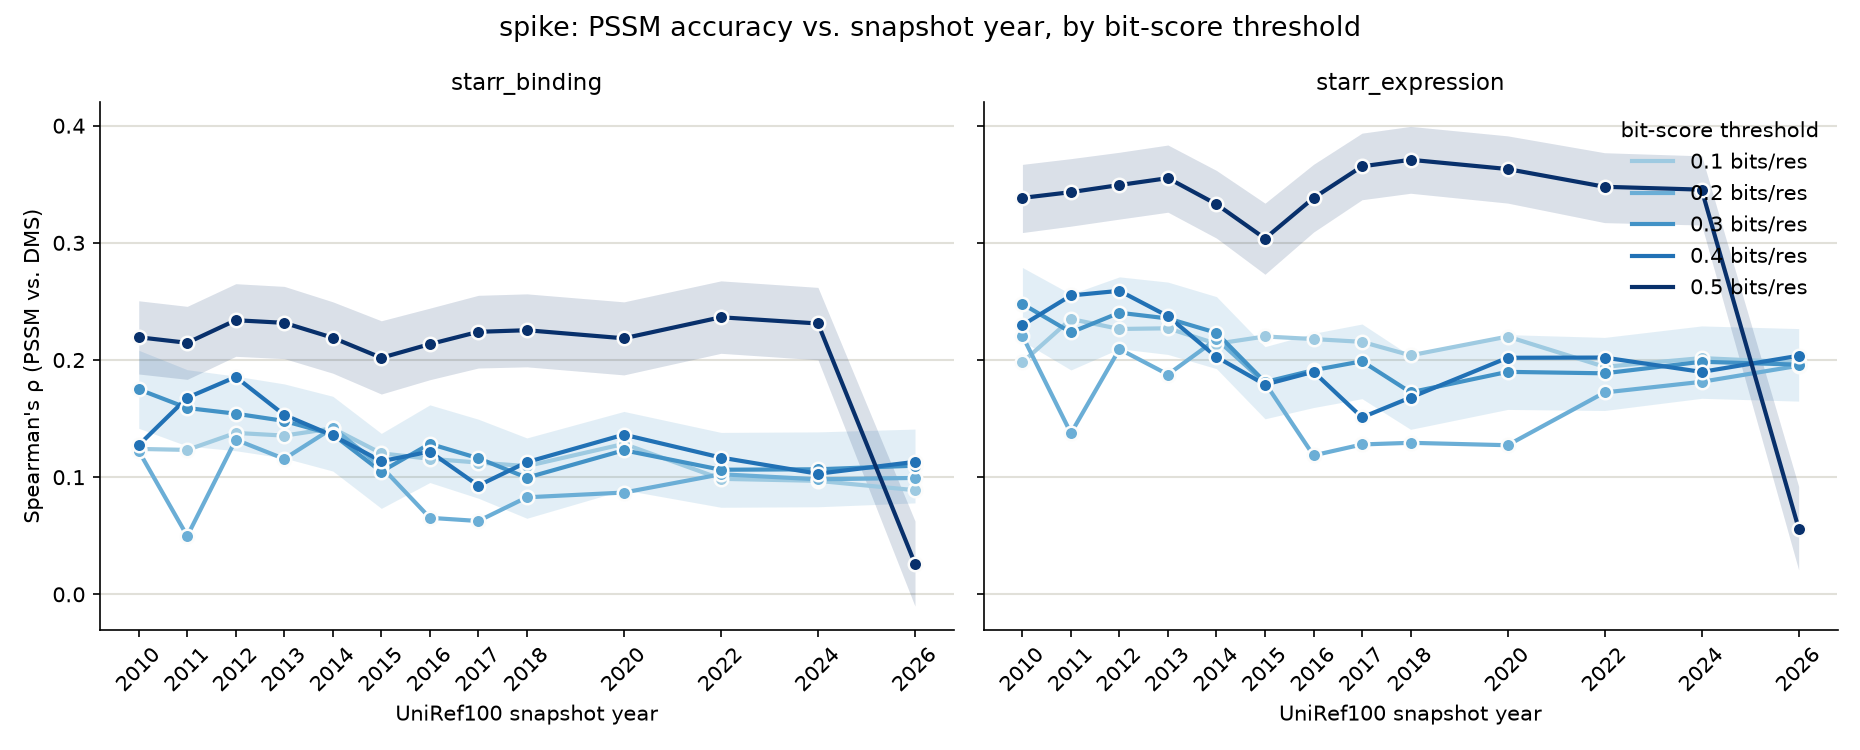
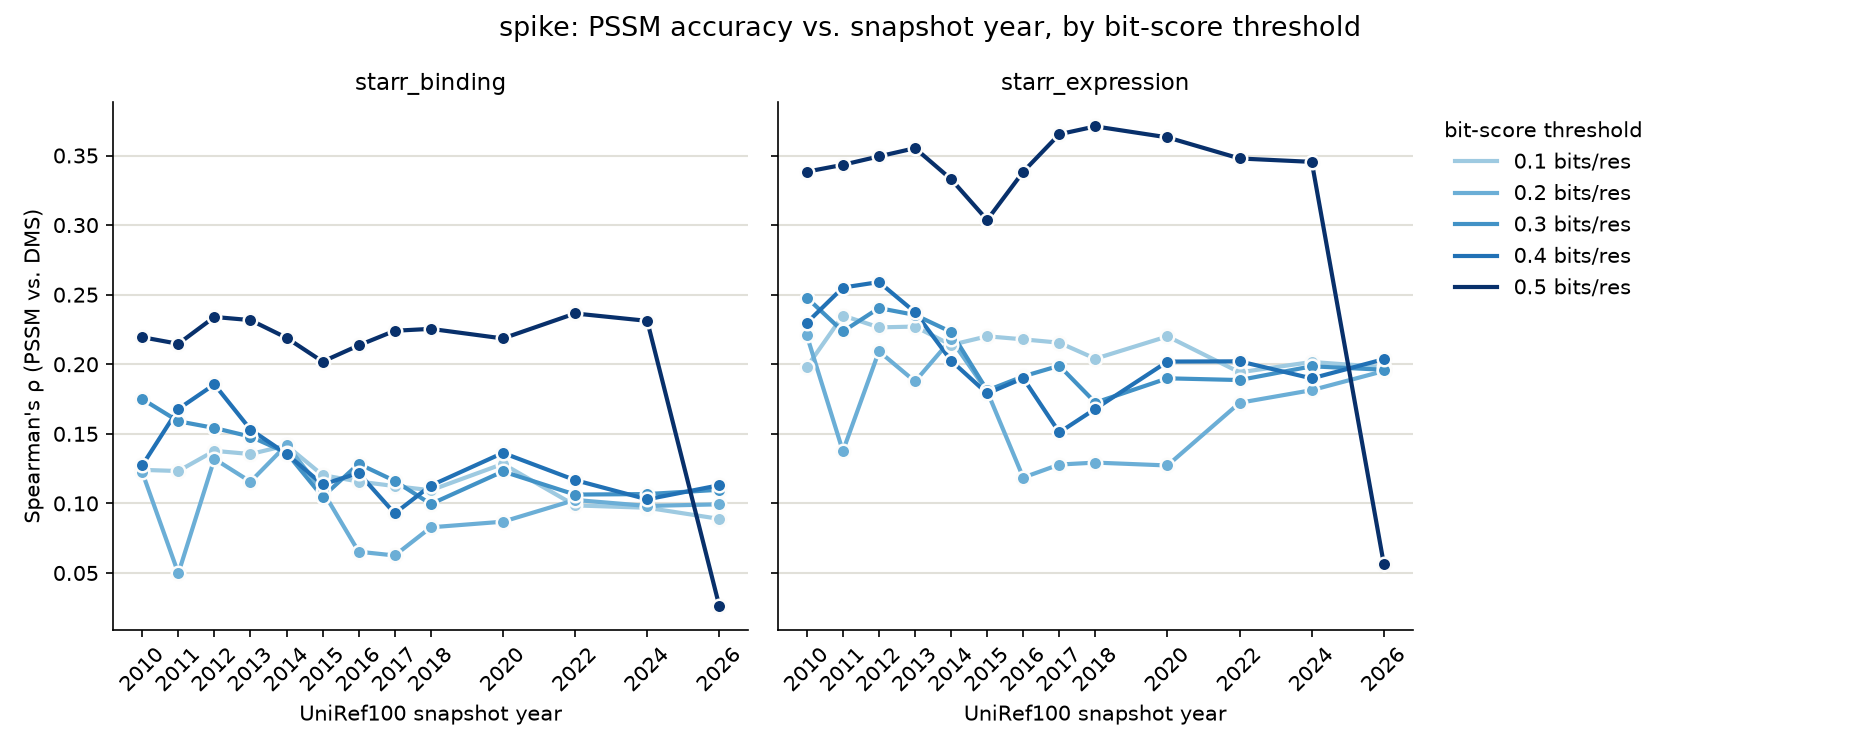
remove confidence bands

diff --git a/scripts/sweep/plot_threshold_sweep.py b/scripts/sweep/plot_threshold_sweep.py
@@ -8,10 +8,10 @@ writes one PNG per protein under `plots/`:
 
     python scripts/sweep/plot_threshold_sweep.py
 
-Only the config baseline threshold has CI bands (baseline vs. the best-scoring
-threshold) so the "is the improvement real?" comparison stays legible instead of
-five overlapping bands. Anomalous cells are left in place -- a collapsed point is
-a validation finding, not noise to hide.
+Lines only, no CI bands: five overlapping bands turn the low-threshold cluster
+into an unreadable haze, so the bootstrap CIs live in `data/sweep_results.csv`
+instead. Anomalous cells are left in place -- a collapsed point is a validation
+finding, not noise to hide.
 """
 
 import os
@@ -40,14 +40,9 @@ THRESHOLD_COLORS = {
 
 def plot_assay(ax, sub, title):
     thresholds = sorted(sub["bitscore_per_residue"].unique())
-    baseline = min(thresholds, key=lambda t: abs(t - 0.3))  # config default for spike
-    best = max(thresholds)  # 0.5 is the standout column in the data
     for thr in thresholds:
         s = sub[sub["bitscore_per_residue"] == thr].sort_values("year")
         color = THRESHOLD_COLORS.get(thr, "#888888")
-        if thr in (baseline, best):
-            ax.fill_between(s["year"], s["bootstrap_ci_95_lo"], s["bootstrap_ci_95_hi"],
-                            color=color, alpha=0.15, linewidth=0, zorder=1)
         ax.plot(s["year"], s["spearman_rho"], color=color, linewidth=2, zorder=2,
                 label=f"{thr:g} bits/res")
         ax.scatter(s["year"], s["spearman_rho"], s=42, color=color,
@@ -74,11 +69,13 @@ def main():
     for ax, assay in zip(axes, assays):
         plot_assay(ax, df[df["dms_id"] == assay], assay)
     axes[0].set_ylabel("Spearman's ρ (PSSM vs. DMS)")
-    axes[-1].legend(frameon=False, loc="upper right", title="bit-score threshold")
+    # Legend outside the panels so it never sits on a line.
+    axes[-1].legend(frameon=False, loc="upper left", bbox_to_anchor=(1.02, 1.0),
+                    title="bit-score threshold")
 
     fig.suptitle(f"{PROTEIN}: PSSM accuracy vs. snapshot year, by bit-score threshold",
                  fontsize=13)
-    fig.tight_layout()
+    fig.tight_layout(rect=(0, 0, 0.9, 1))
     fig.savefig(OUT_PNG, dpi=150)
     print(f"Wrote {OUT_PNG}")
 
